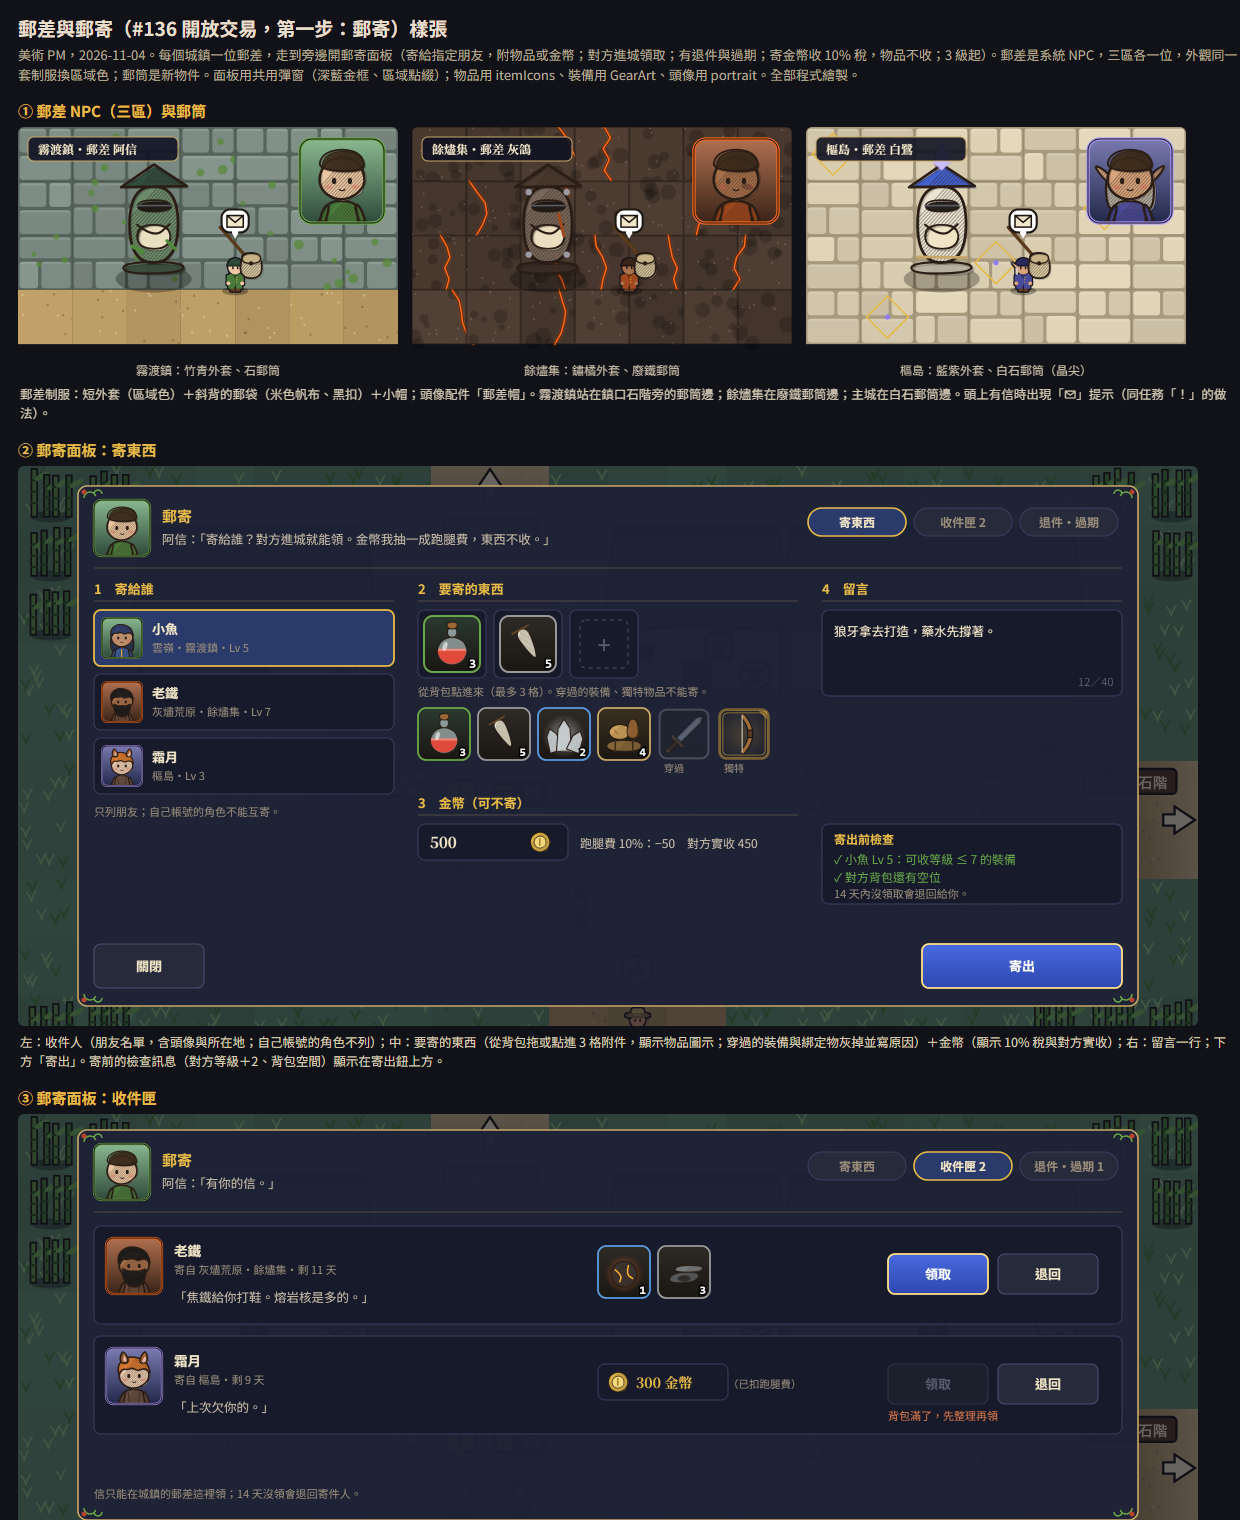
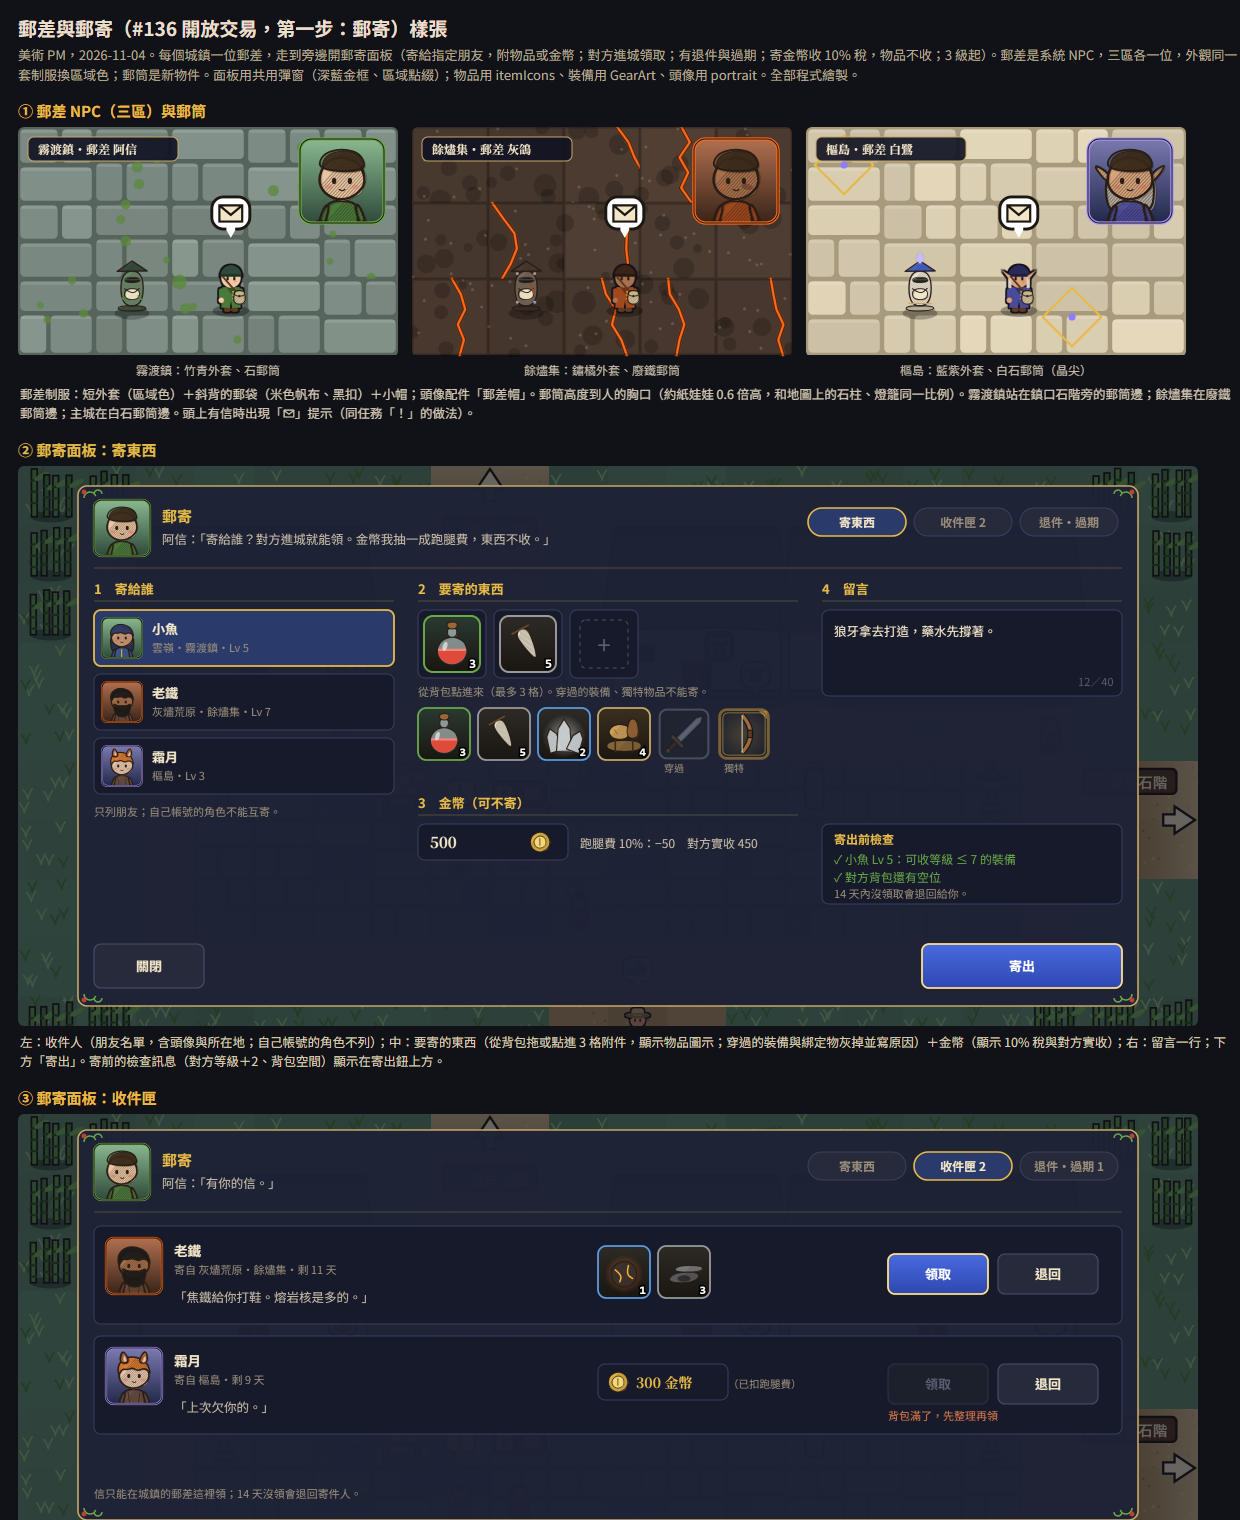
docs(art): postbox to chest height; ratio in mail spec

Changed region(s): [[0.0, 0.0928, 1.0, 0.2783], [0.5823, 0.1546, 0.6129, 0.1855]]

diff --git a/docs/art/郵寄外觀.md b/docs/art/郵寄外觀.md
@@ -22,6 +22,7 @@
 ## 2. 郵筒（新物件外觀 `postbox`）
 
 - 方柱、斜頂、投信口、信封牌、腳座；墨線畫法。
+- **比例**：郵筒高度到紙娃娃的胸口，約人物高度的 0.6 倍（實地地圖 52px 格、紙娃娃約 50px 高時，郵筒約 30px），和地圖上的石柱、燈籠同一比例；不能比人高。
 - 材質依區域：雲嶺青石帶苔、荒原廢鐵帶鉚釘與鏽痕、主城白石金邊加晶尖。
 - 規則同 `low_wall`（擋路、不可破壞）；走到旁邊也能開郵寄面板（和郵差同一個設施）。
 
